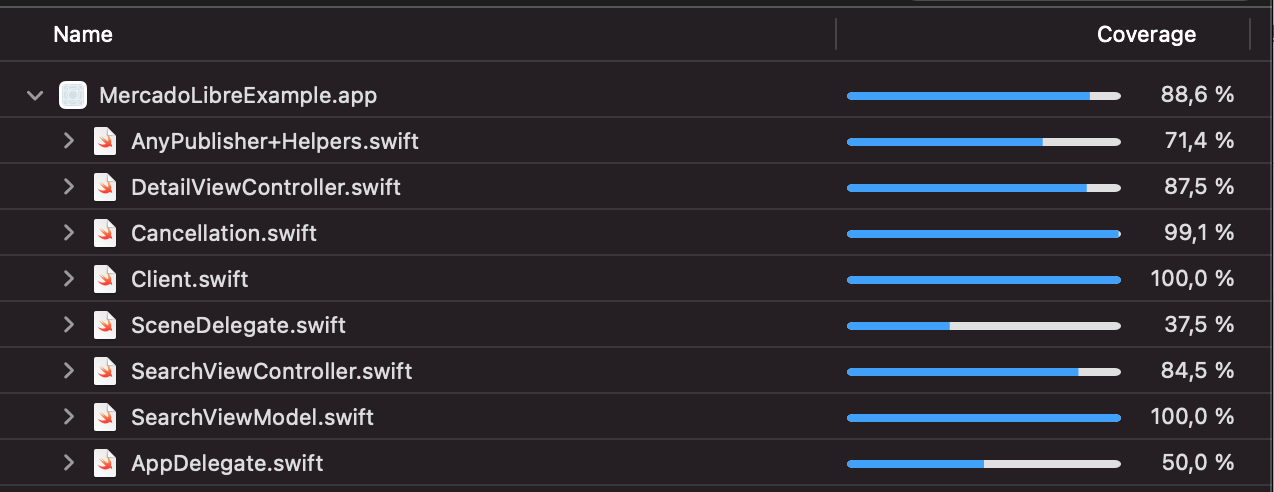
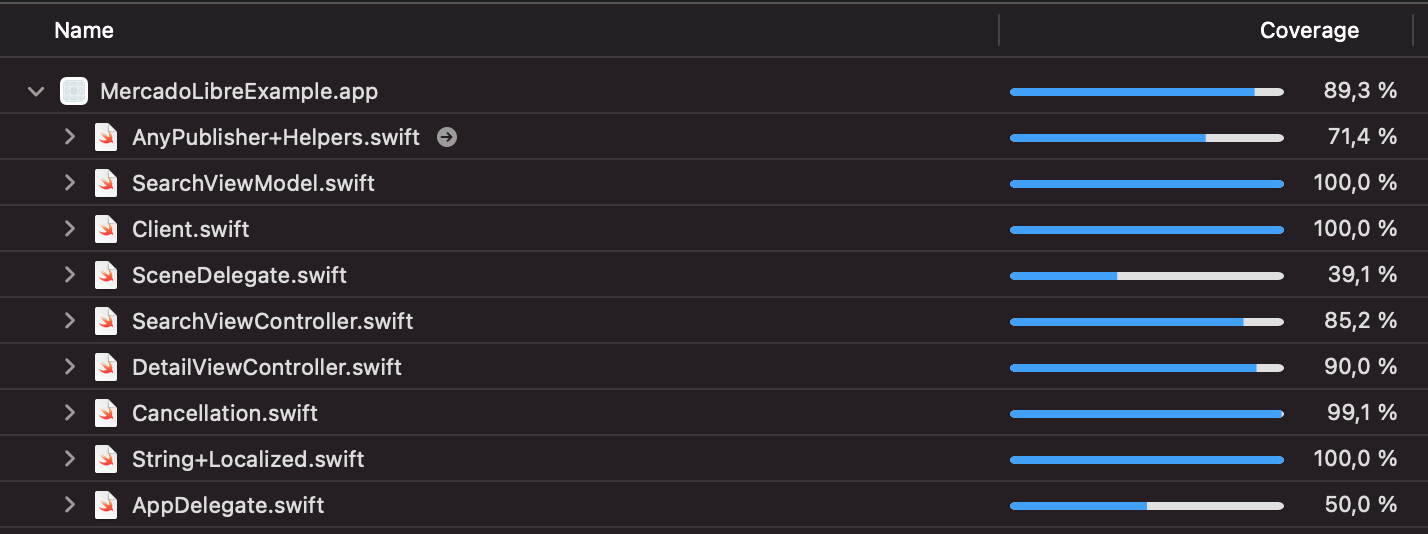
update README

Changed region(s): [[0.0, 0.0, 1.0, 1.0], [0.0306, 0.9146, 0.2755, 0.9756]]

diff --git a/README.md b/README.md
@@ -2,11 +2,23 @@
 
 A simple example app that uses MercadoLibre API to search for products.
 
+![gif](/RocketSim.png)
+
 ## Architecture
 
 It uses the architectural pattern MVVM + Vanilla Combine for the bindings.
 The UI is as dumb as posible displaying the state from the ViewModel and sending actions to it. 
 This allow to a easy migration to Redux like architecture like [TCA](https://github.com/pointfreeco/swift-composable-architecture)
+
+## UT Coverage
+![coverage](/coverage.png)
+
+Tests are separeted on 3 sides:
+
+- Logic: consist on testing the [ViewModel](/MercadoLibreExampleTests/SearchViewModelTests.swift).
+- Client: consist on testing [MercadoLibre Client](/MercadoLibreExampleTests/MercadoLibreApiTests.swift).
+- Integration: consist on testing [UI](/MercadoLibreTests/SearchViewModelTests.swift) and navigation.
+
 
 ## Dependencies
 
@@ -22,3 +34,10 @@ Snapshot anything, this allow you to improve your tests by doing thing like:
 
 [Codable Utils](https://github.com/jlainog/Codable-Utils)
 A personal package that leverage type inference when working with codable.
+
+## TODO Next
+
+* Improve UI by using UICollectionView + CompositionalLayout + DiffableDataSource
+* Separate *Mercado Libre Client* to its own package to make more explicitly the depency to it
+* Separate *Mercado Libre Live Implementation* so it is only imported and used on the SceneDelegate when launching the app
+* Cookup Previews for Search and Detail ViewControllers
